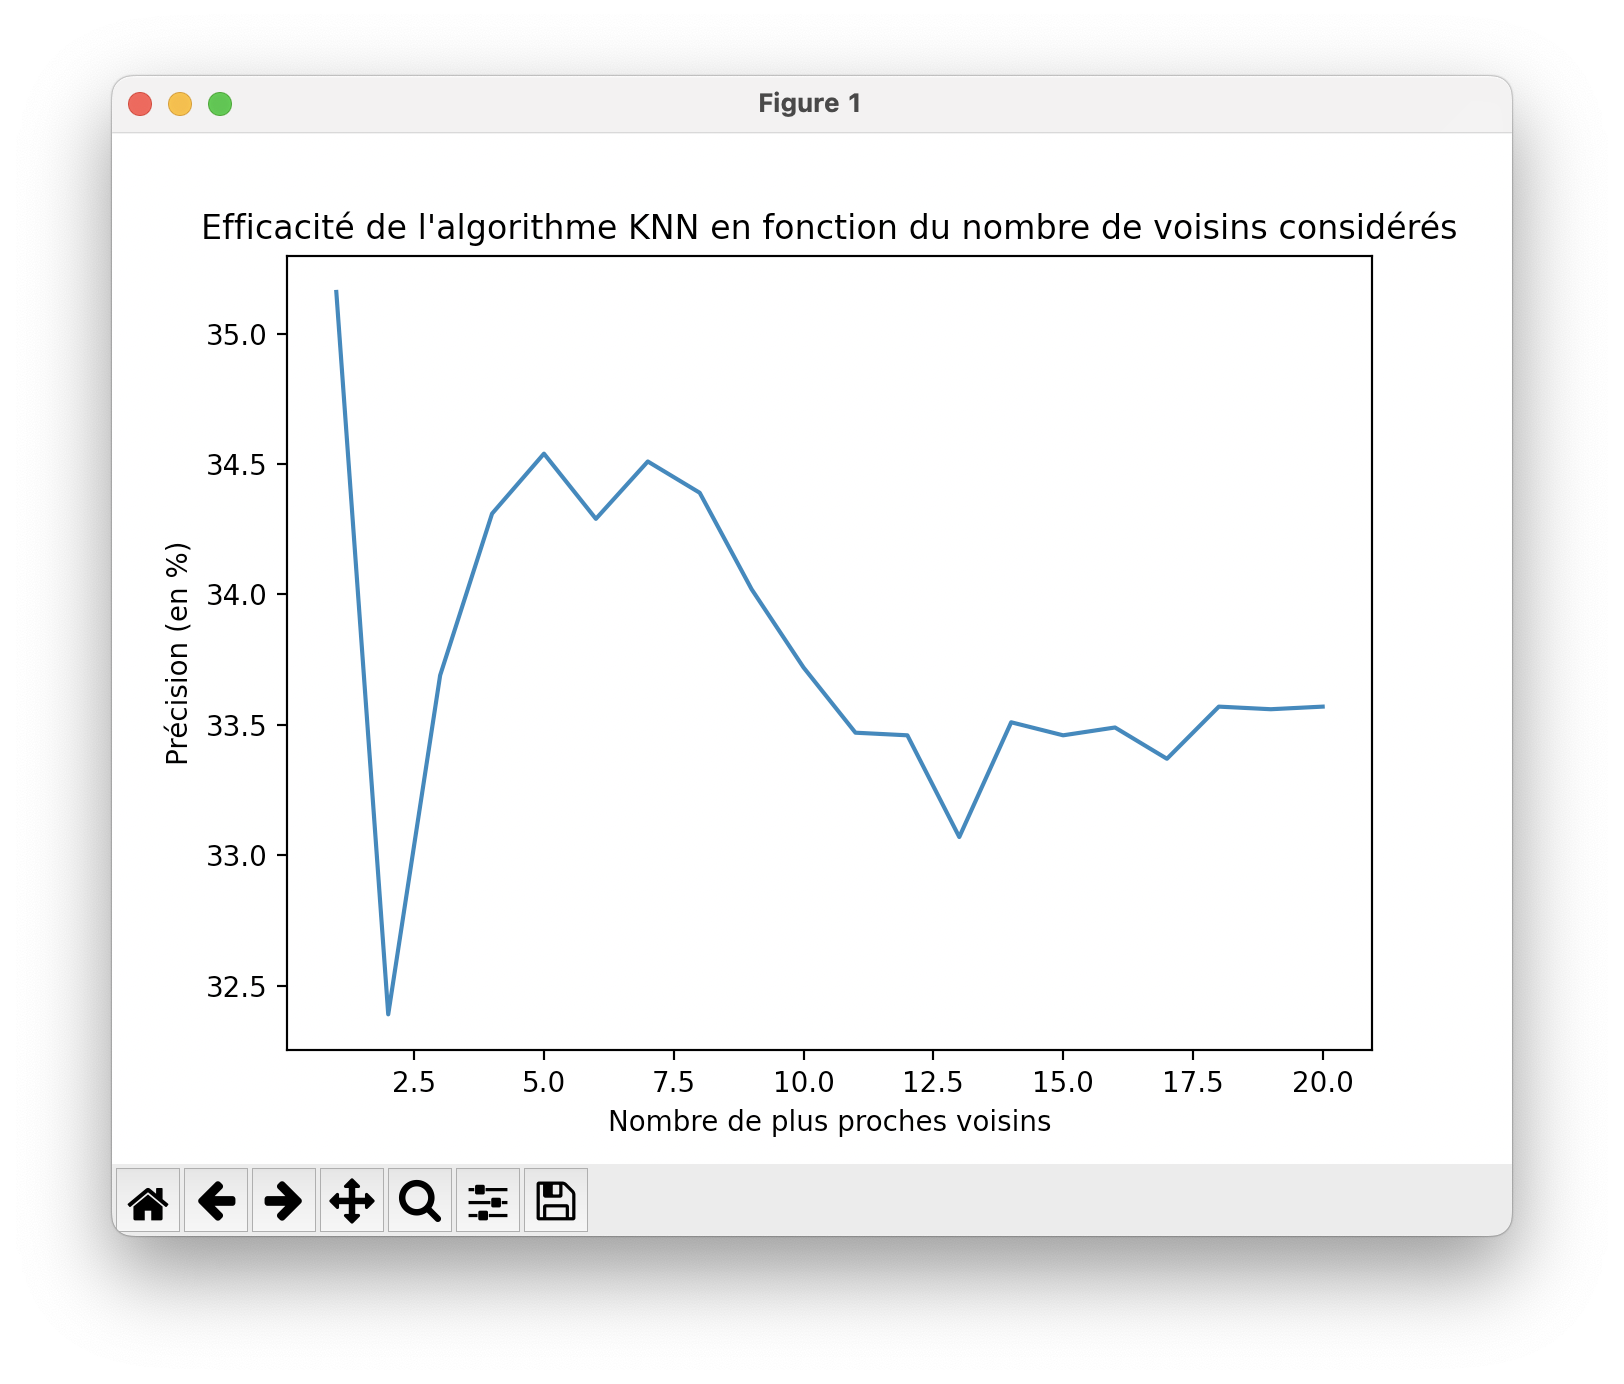
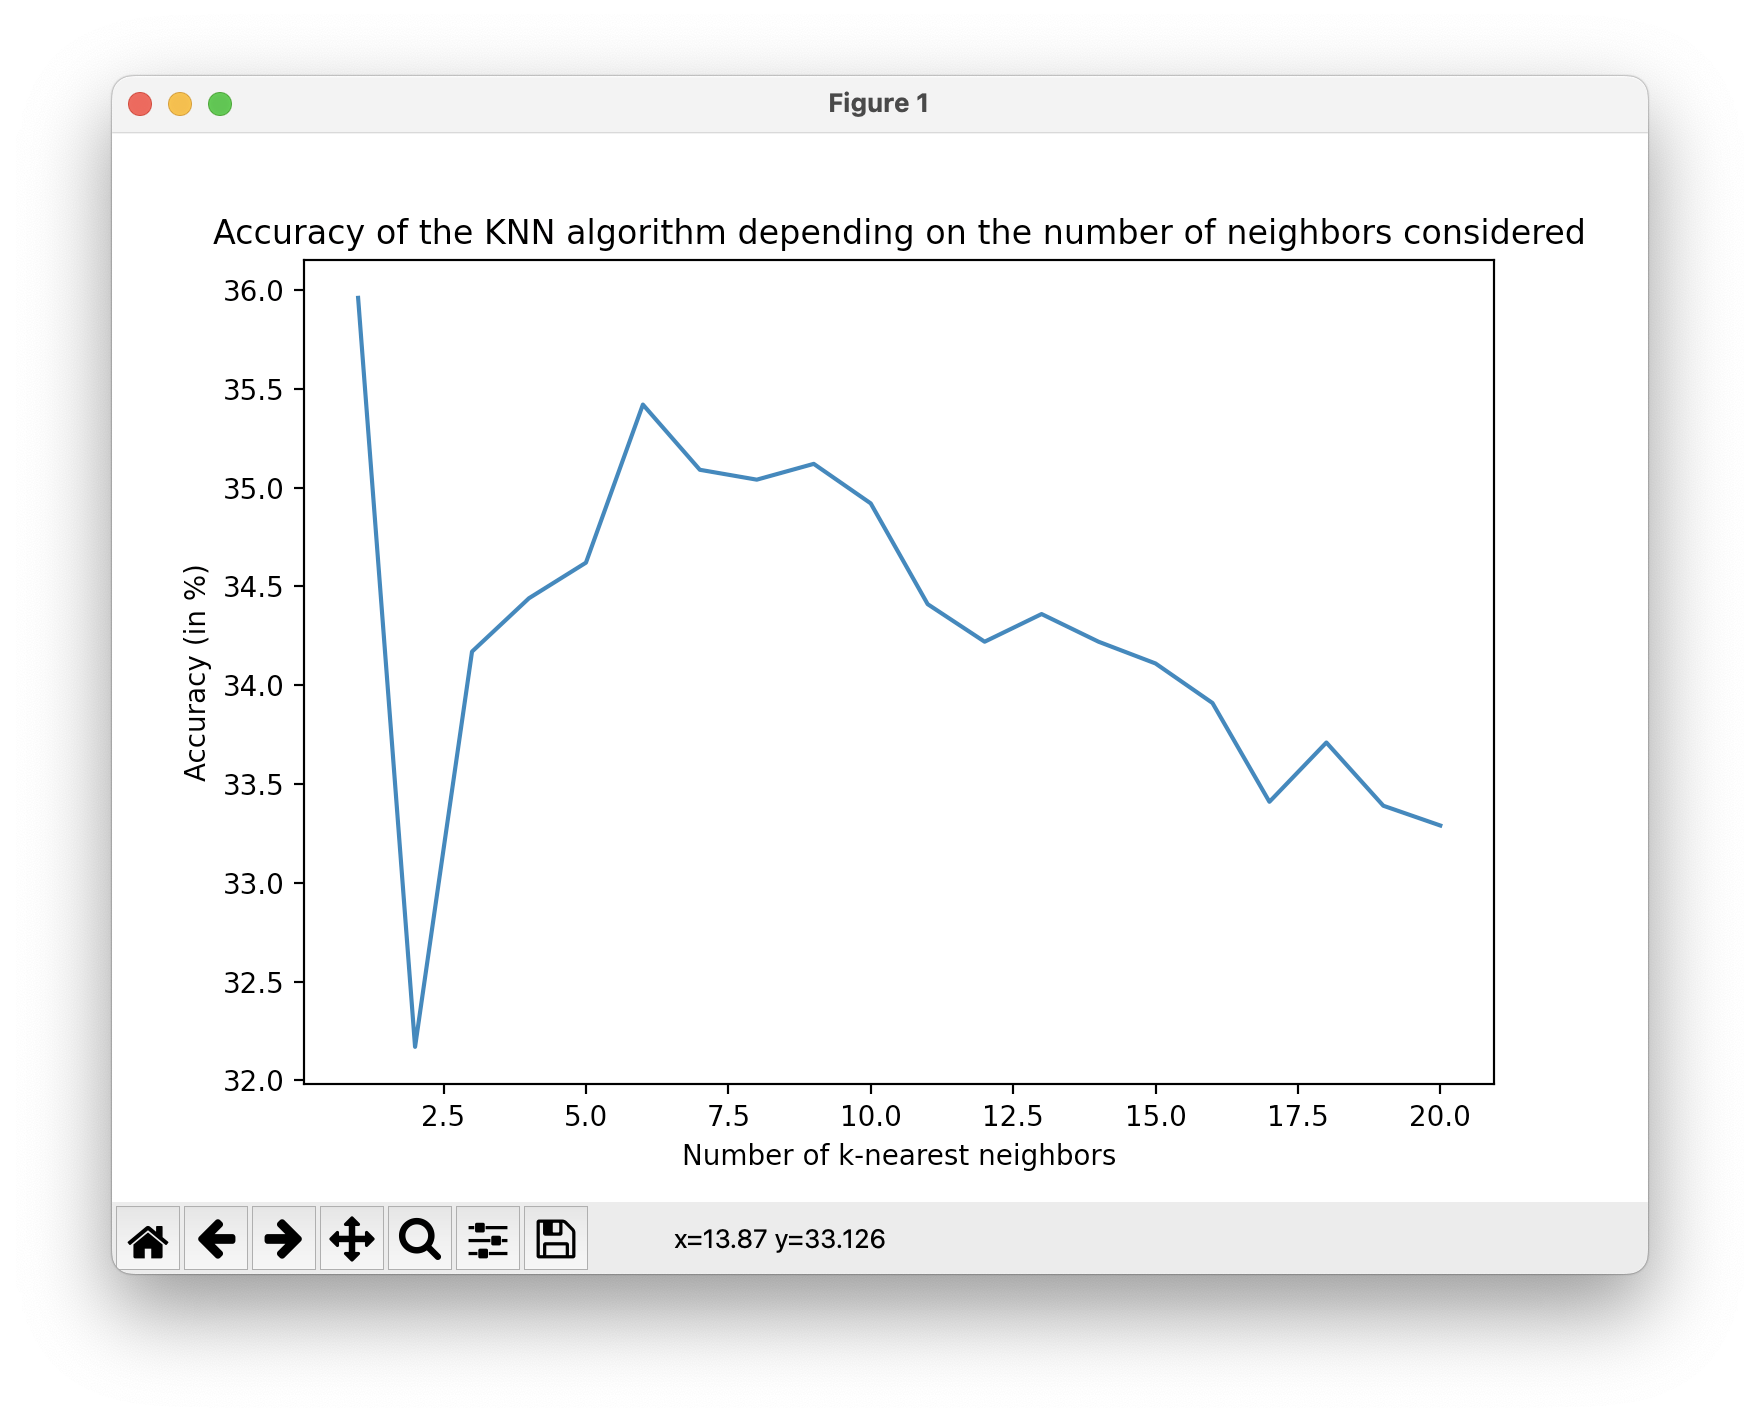
Correct distance computation and add correct results

diff --git a/knn.py b/knn.py
@@ -15,7 +15,7 @@ def distance_matrix(M1, M2):
 
     M1_sq_sum = np.sum(M1*M1, axis=1, keepdims=True)
     M2_sq_sum = np.sum(M2*M2, axis=1, keepdims=True)
-    product = -2 * np.matmul(M1, M2.T)
+    product = np.matmul(M1, M2.T)
 
     dists = np.sqrt(M1_sq_sum + M2_sq_sum.T - 2 * product)
     return dists
@@ -63,22 +63,21 @@ def evaluate_knn(data_train, labels_train, data_test, labels_test, k):
 
 if __name__ == "__main__":
     
-    """
     # Test evaluate_knn on smaller datasets to establish algorithm correctness and closure
     data, labels = read_cifar("data")
     split_factor = 0.75
     a, b, c, d = split_dataset(data, labels, split_factor)
     a, b, c, d = a[:4500], b[:4500], c[:1500], d[:1500]
-    k = 5
+    k = 7
 
     prec = evaluate_knn(a, b, c, d, k)
     print("Précision de l'algorithme knn : " + str(round(prec, 1)) + "%")
-    """
     
     # Plot the accuracy of the KNN algorithm on the full datasets while changing the number of neighbors considered
     data, labels = read_cifar("data")
     split_factor = 0.9
     a, b, c, d = split_dataset(data, labels, split_factor)
+    #a, b, c, d = a[:4500], b[:4500], c[:1500], d[:1500]
 
     k = []
     acc = []
@@ -89,9 +88,8 @@ if __name__ == "__main__":
         acc.append(evaluate_knn(a, b, c, d, i))
     
     plt.plot(k, acc)
-    plt.xlabel("Nombre de plus proches voisins")
-    plt.ylabel("Précision (en %)")
-    plt.title("Efficacité de l'algorithme KNN en fonction du nombre de voisins considérés")
+    plt.xlabel("Number of k-nearest neighbors")
+    plt.ylabel("Accuracy (in %)")
+    plt.title("Accuracy of the KNN algorithm depending on the number of neighbors considered")
     plt.show()
-    
 
